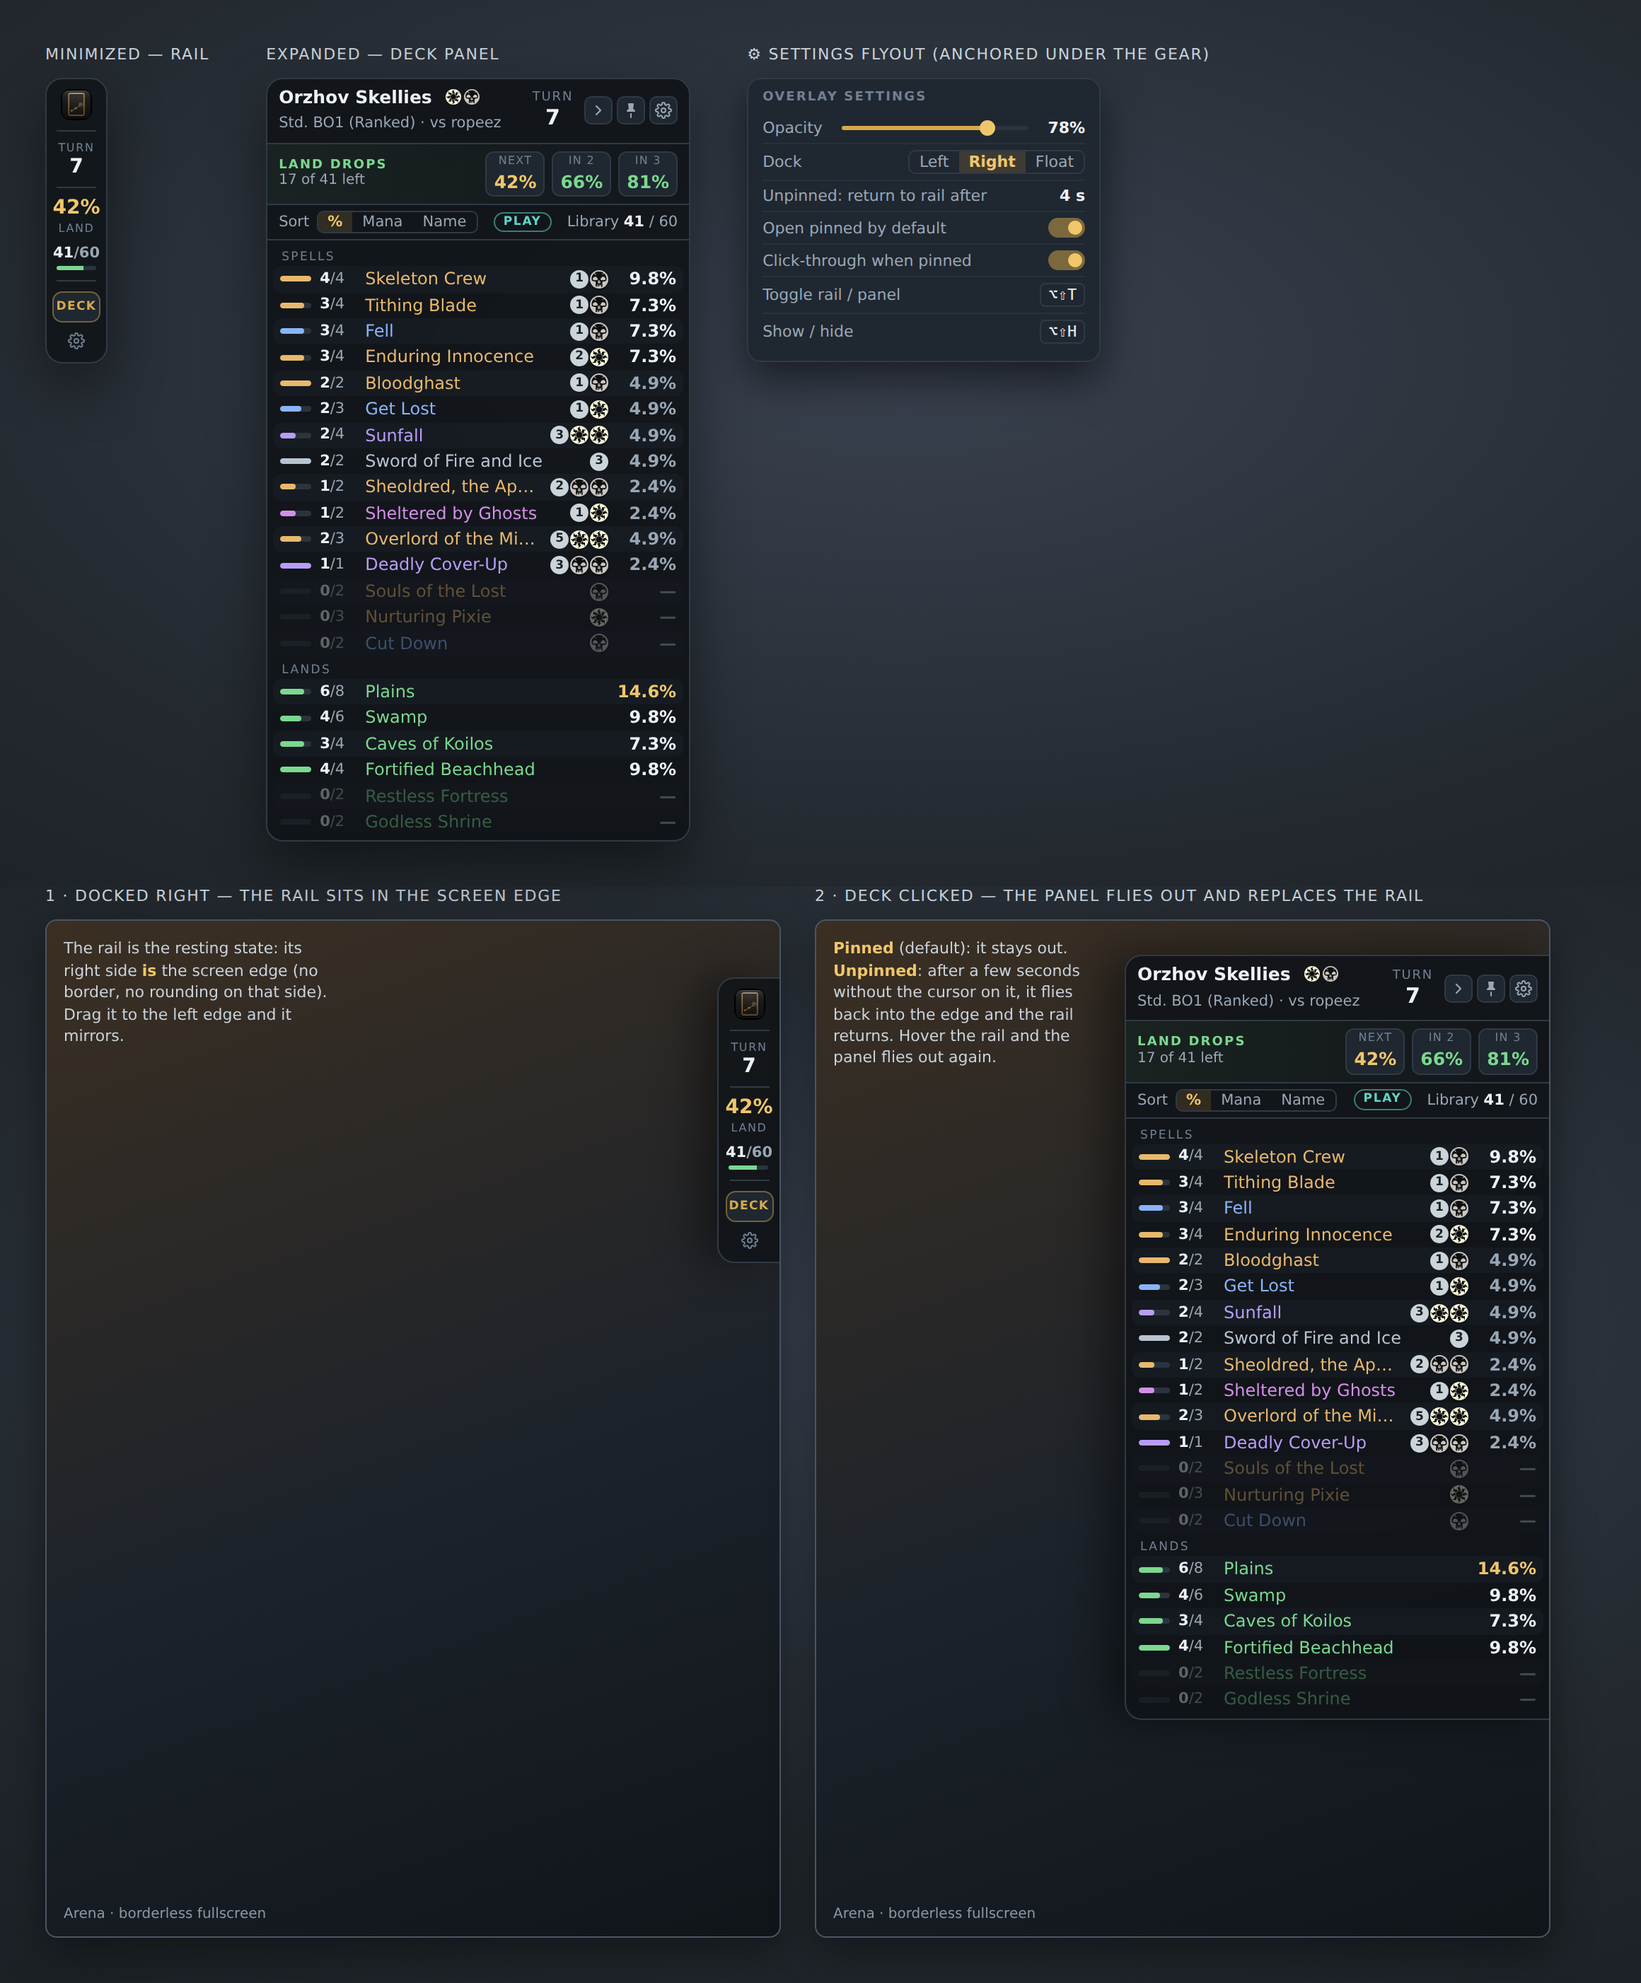
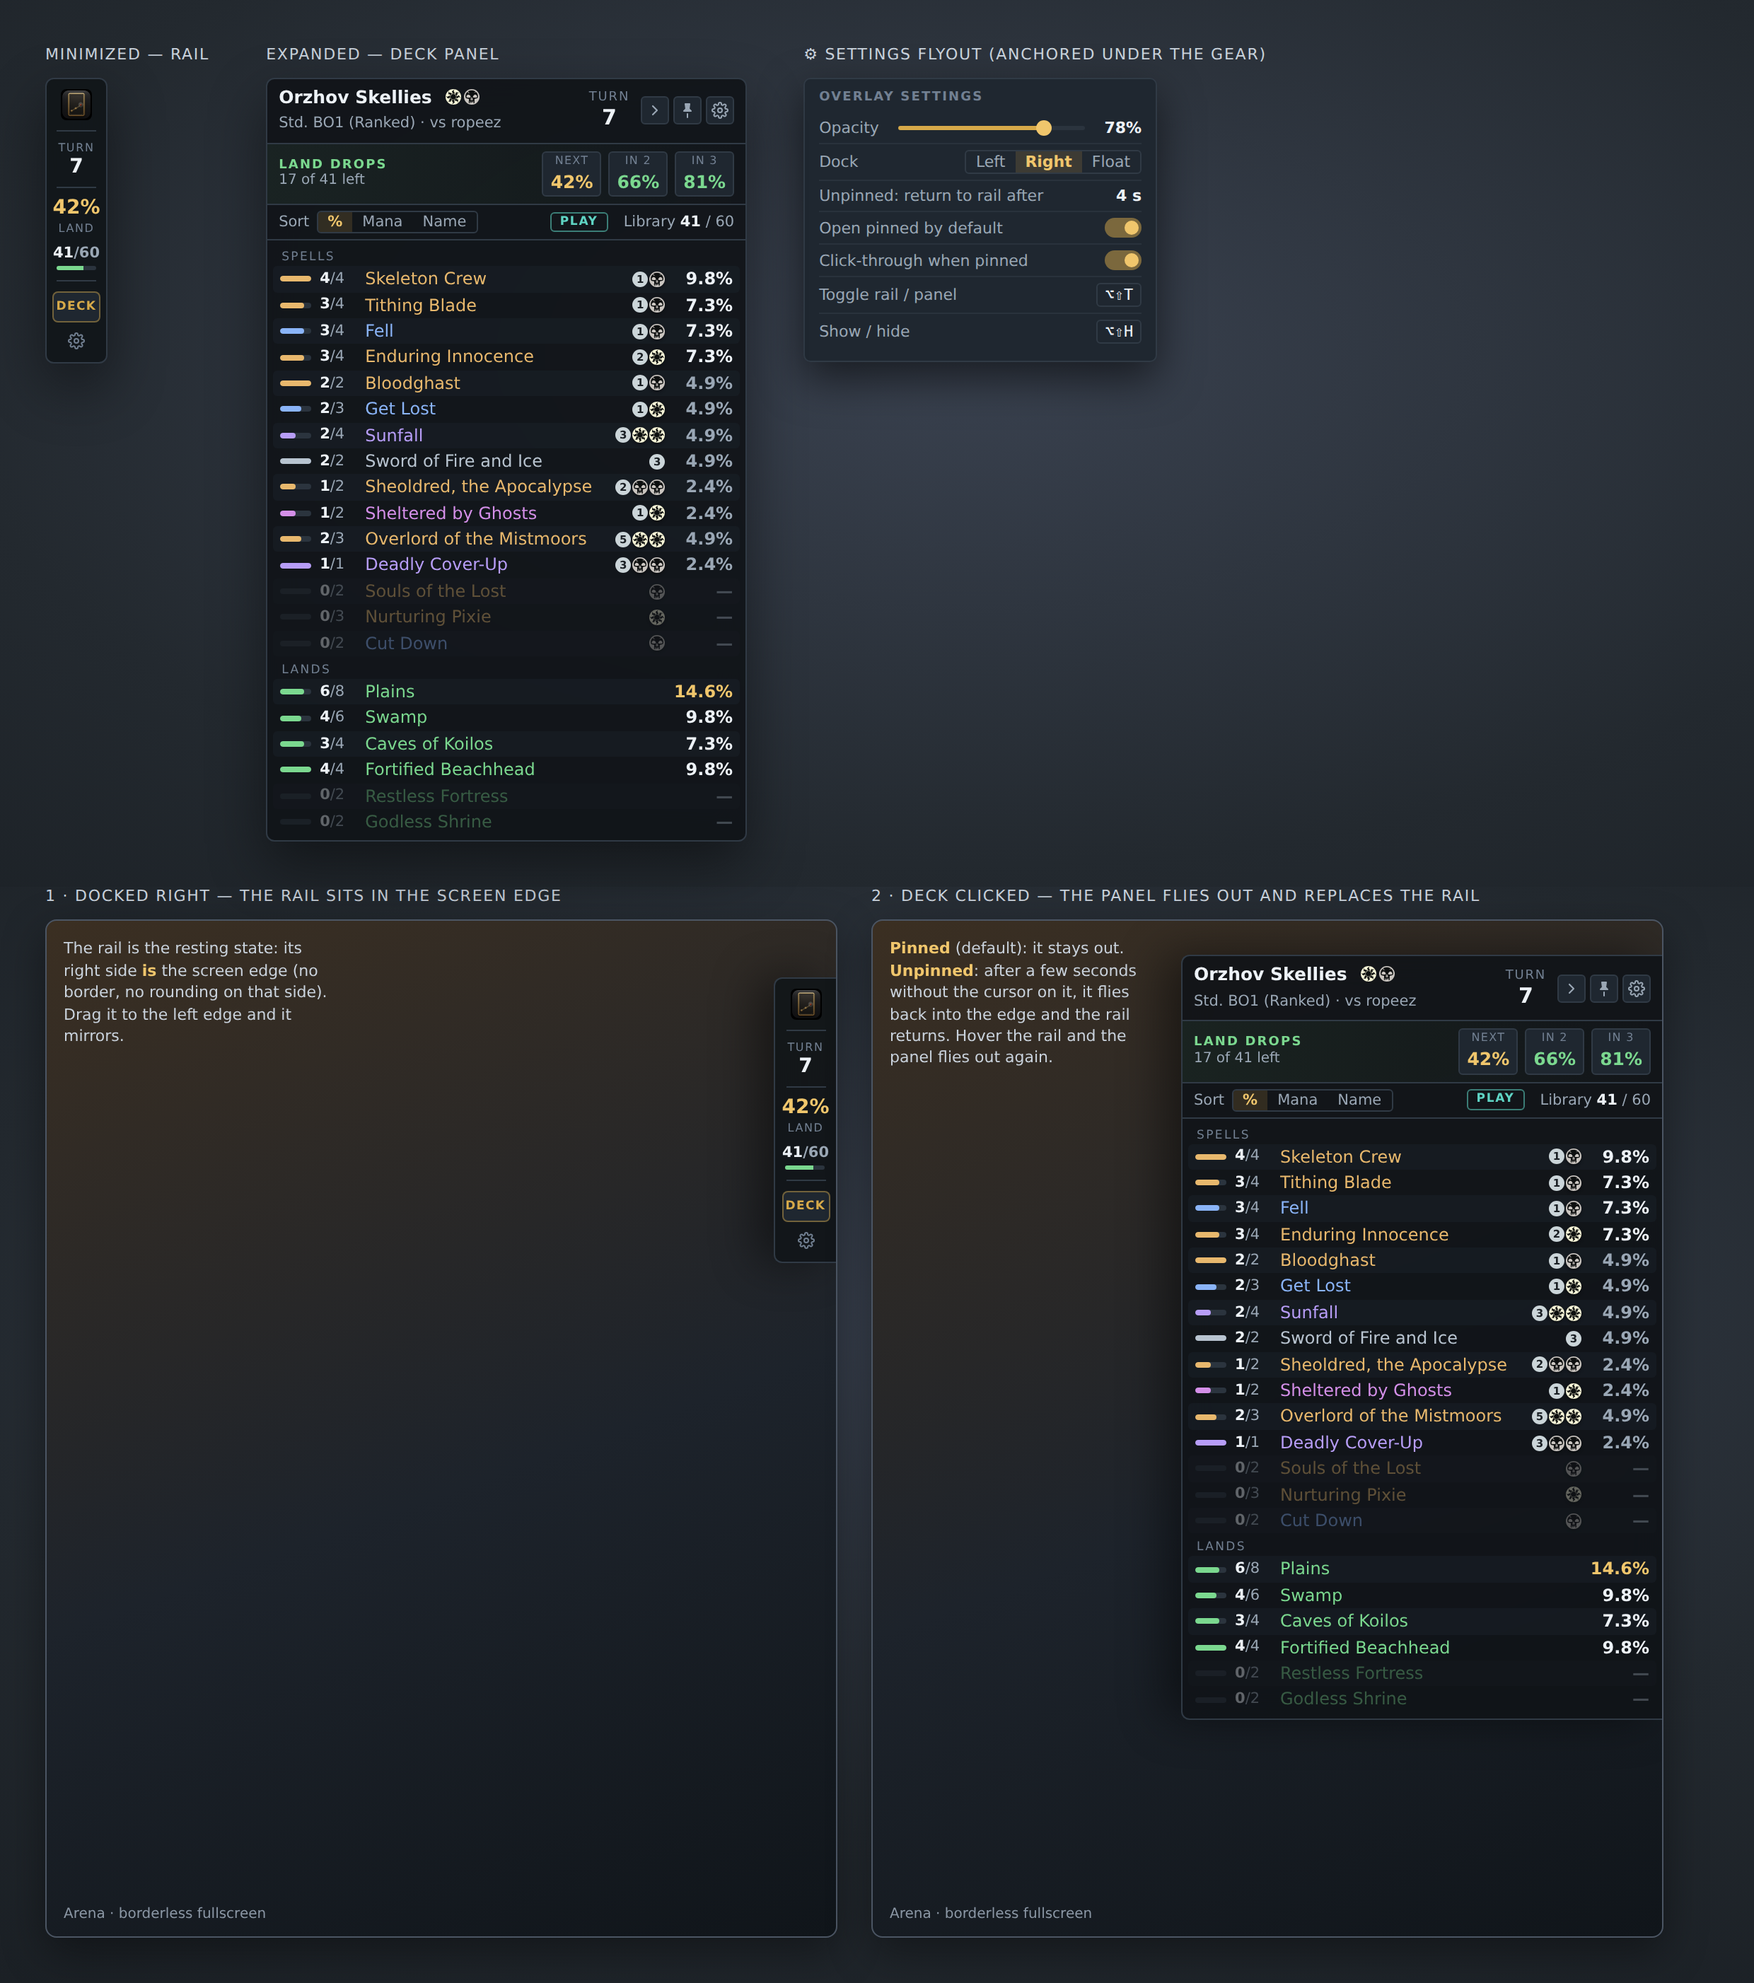
Overlay plan v6: 340px panel so full card names fit, 11px mana symbols, tighter corner radii throughout

diff --git a/docs/overlay-mockup.html b/docs/overlay-mockup.html
@@ -7,10 +7,10 @@
   body { margin:0; background:#2b3138; font-family:Inter, ui-sans-serif, system-ui, -apple-system, "Segoe UI", sans-serif; color:var(--text); }
   .stage { display:flex; gap:40px; padding:32px; align-items:flex-start; background:radial-gradient(1200px 600px at 55% 40%, #3a4250 0%, #23292f 60%, #1a1f24 100%); }
   .label { color:#c9d2dc; font-size:11px; letter-spacing:.08em; text-transform:uppercase; margin:0 0 10px; }
-  .logo { border-radius:7px; display:block; }
+  .logo { border-radius:4px; display:block; }
 
   /* rail */
-  .rail { width:44px; background:rgba(16,20,24,.88); border:1px solid var(--border); border-radius:12px; box-shadow:0 16px 40px rgb(0 0 0 / 45%);
+  .rail { width:44px; background:rgba(16,20,24,.88); border:1px solid var(--border); border-radius:6px; box-shadow:0 16px 40px rgb(0 0 0 / 45%);
            backdrop-filter:blur(10px); padding:7px 0 5px; display:flex; flex-direction:column; align-items:center; gap:7px; }
   .rail .sep { width:28px; height:1px; background:var(--border); }
   .rail .k { font-size:8px; letter-spacing:.1em; color:var(--subtle); text-transform:uppercase; }
@@ -18,13 +18,13 @@
   .rail .cell { display:flex; flex-direction:column; align-items:center; }
   .rail .land { font-size:14px; font-weight:800; color:var(--accent-strong); line-height:1; }
   .rail .lib { font-size:10.5px; font-weight:700; color:var(--muted); } .rail .lib b { color:var(--text); }
-  .rail .bar { width:28px; height:3px; border-radius:3px; background:#2b343e; overflow:hidden; margin-top:3px; } .rail .bar i { display:block; height:100%; width:68%; background:var(--success); }
-  .rail .btn { width:34px; height:22px; border-radius:7px; border:1px solid var(--border); background:var(--panel-strong); display:grid; place-items:center; font-size:8.5px; font-weight:800; letter-spacing:.08em; color:var(--muted); }
+  .rail .bar { width:28px; height:3px; border-radius:2px; background:#2b343e; overflow:hidden; margin-top:3px; } .rail .bar i { display:block; height:100%; width:68%; background:var(--success); }
+  .rail .btn { width:34px; height:22px; border-radius:4px; border:1px solid var(--border); background:var(--panel-strong); display:grid; place-items:center; font-size:8.5px; font-weight:800; letter-spacing:.08em; color:var(--muted); }
   .rail .btn.gold { color:var(--accent); border-color:rgba(215,170,73,.45); }
   .rail .gear { color:var(--subtle); font-size:13px; }
 
   /* panel */
-  .panel { width:300px; background:rgba(16,20,24,.92); border:1px solid var(--border); border-radius:12px; box-shadow:0 16px 40px rgb(0 0 0 / 45%); backdrop-filter:blur(10px); overflow:hidden; position:relative; }
+  .panel { width:340px; background:rgba(16,20,24,.92); border:1px solid var(--border); border-radius:6px; box-shadow:0 16px 40px rgb(0 0 0 / 45%); backdrop-filter:blur(10px); overflow:hidden; position:relative; }
   .head { display:flex; align-items:center; gap:8px; padding:6px 8px 6px 8px; border-bottom:1px solid var(--border); }
   .head .deck { flex:1; min-width:0; line-height:1.15; }
   .head .deck b { display:block; font-size:12.5px; white-space:nowrap; overflow:hidden; text-overflow:ellipsis; }
@@ -32,47 +32,47 @@
   .pips { display:inline-flex; gap:2px; vertical-align:-1px; margin-left:5px; } .pips img { width:11px; height:11px; }
   .head .turn { font-size:9px; letter-spacing:.1em; color:var(--subtle); text-align:center; line-height:1; } .head .turn b { display:block; font-size:15px; color:var(--text); margin-top:2px; letter-spacing:0; }
   .head .ctl { display:flex; gap:3px; }
-  .head .ctl span { width:20px; height:20px; border-radius:5px; border:1px solid var(--border); display:grid; place-items:center; color:var(--muted); font-size:11px; background:var(--panel-strong); }
+  .head .ctl span { width:20px; height:20px; border-radius:3px; border:1px solid var(--border); display:grid; place-items:center; color:var(--muted); font-size:11px; background:var(--panel-strong); }
   .head .ctl span.on { color:var(--muted); }
 
   .lands { display:grid; grid-template-columns:1fr auto auto auto; align-items:center; gap:5px; padding:5px 8px; border-bottom:1px solid var(--border);
            background:linear-gradient(90deg, rgba(123,216,143,.07), transparent); }
   .lands .t { font-size:9px; letter-spacing:.12em; color:var(--success); text-transform:uppercase; font-weight:800; line-height:1.2; }
   .lands .t small { display:block; font-size:10px; letter-spacing:0; text-transform:none; color:var(--muted); font-weight:500; }
-  .odd { text-align:center; min-width:40px; padding:2px 5px; border-radius:6px; background:var(--panel-strong); border:1px solid var(--border); line-height:1.1; }
+  .odd { text-align:center; min-width:40px; padding:2px 5px; border-radius:3px; background:var(--panel-strong); border:1px solid var(--border); line-height:1.1; }
   .odd small { display:block; font-size:8px; color:var(--subtle); letter-spacing:.08em; } .odd b { font-size:12.5px; color:var(--success); } .odd.now b { color:var(--accent-strong); }
 
   .tools { display:flex; align-items:center; gap:5px; padding:4px 8px; white-space:nowrap; font-size:10.5px; color:var(--muted); border-bottom:1px solid var(--border); }
-  .tools .seg { display:inline-flex; border:1px solid var(--border); border-radius:5px; overflow:hidden; } .tools .seg span { padding:1px 7px; }
+  .tools .seg { display:inline-flex; border:1px solid var(--border); border-radius:3px; overflow:hidden; } .tools .seg span { padding:1px 7px; }
   .tools .seg span.on { background:rgba(215,170,73,.16); color:var(--accent-strong); font-weight:700; }
   .tools .lib { margin-left:6px; }
-  .tools .pd { margin-left:auto; font-size:8.5px; font-weight:800; letter-spacing:.1em; padding:2px 6px; border-radius:10px; border:1px solid var(--border); line-height:1; }
+  .tools .pd { margin-left:auto; font-size:8.5px; font-weight:800; letter-spacing:.1em; padding:2px 6px; border-radius:3px; border:1px solid var(--border); line-height:1; }
   .tools .pd.play { color:#5fd4c4; border-color:rgba(95,212,196,.55); }
   .tools .pd.draw { color:#b79df7; border-color:rgba(183,157,247,.55); } .tools .lib b { color:var(--text); }
 
   .list { padding:2px 4px 4px; }
   .grp { font-size:8.5px; letter-spacing:.14em; color:var(--subtle); text-transform:uppercase; padding:5px 6px 1px; }
-  .row { display:grid; grid-template-columns:22px 26px 1fr auto 42px; align-items:center; gap:6px; padding:2px 5px; border-radius:6px; font-size:12px; line-height:1.2; }
+  .row { display:grid; grid-template-columns:22px 26px 1fr auto 42px; align-items:center; gap:6px; padding:2px 5px; border-radius:3px; font-size:12px; line-height:1.2; }
   .row:nth-child(even) { background:rgba(31,39,48,.35); } .row.dim { opacity:.36; }
   .row .cnt { font-size:10.5px; color:var(--muted); font-variant-numeric:tabular-nums; } .row .cnt b { color:var(--text); }
   .row .nm { white-space:nowrap; overflow:hidden; text-overflow:ellipsis; }
   .nm.land { color:#7bd88f; } .nm.creature { color:#e8b86d; } .nm.instant { color:#8ab4f8; } .nm.sorcery { color:#b79df7; } .nm.ench { color:#d48fe8; } .nm.artifact { color:#b8c4d0; }
-  .mana { display:inline-flex; gap:1px; align-items:center; } .mana img { width:13px; height:13px; filter:drop-shadow(0 1px 1px rgb(0 0 0 / 45%)); }
-  .mana .gen { width:13px; height:13px; border-radius:50%; background:#cbd5d9; color:#1a1f24; font-style:normal; font-size:8.5px; font-weight:800; display:grid; place-items:center; }
+  .mana { display:inline-flex; gap:1px; align-items:center; } .mana img { width:11px; height:11px; filter:drop-shadow(0 1px 1px rgb(0 0 0 / 45%)); }
+  .mana .gen { width:11px; height:11px; border-radius:50%; background:#cbd5d9; color:#1a1f24; font-style:normal; font-size:7.5px; font-weight:800; display:grid; place-items:center; }
   .pct { text-align:right; font-weight:800; font-variant-numeric:tabular-nums; } .pct.hot { color:var(--accent-strong); } .pct.warm { color:var(--text); } .pct.cold { color:var(--muted); font-weight:600; }
   .mini { display:grid; place-items:center; }
-  .mbar { display:block; width:22px; height:4px; border-radius:4px; background:#2b343e; overflow:hidden; }
-  .mbar b { display:block; height:100%; border-radius:4px; }
+  .mbar { display:block; width:22px; height:4px; border-radius:2px; background:#2b343e; overflow:hidden; }
+  .mbar b { display:block; height:100%; border-radius:2px; }
 
   /* settings flyout */
-  .fly { position:absolute; right:8px; top:34px; width:214px; background:var(--panel-strong); border:1px solid var(--border); border-radius:10px; padding:8px 10px; font-size:11px; box-shadow:0 12px 30px rgb(0 0 0 / 55%); z-index:2; }
+  .fly { position:absolute; right:8px; top:34px; width:214px; background:var(--panel-strong); border:1px solid var(--border); border-radius:5px; padding:8px 10px; font-size:11px; box-shadow:0 12px 30px rgb(0 0 0 / 55%); z-index:2; }
   .fly h4 { margin:0 0 6px; font-size:9px; letter-spacing:.12em; color:var(--subtle); text-transform:uppercase; }
   .fly .r { display:flex; align-items:center; justify-content:space-between; gap:8px; padding:4px 0; color:var(--muted); }
   .fly .r + .r { border-top:1px solid rgb(48 58 69 / 60%); }
   .fly .slider { flex:1; height:3px; background:#2b343e; border-radius:3px; position:relative; margin:0 6px; } .fly .slider i { position:absolute; left:0; top:0; height:100%; width:78%; background:var(--accent); border-radius:3px; } .fly .slider b { position:absolute; left:78%; top:-4px; width:11px; height:11px; border-radius:50%; background:var(--accent-strong); transform:translateX(-50%); }
-  .fly .seg { display:inline-flex; border:1px solid var(--border); border-radius:5px; overflow:hidden; } .fly .seg span { padding:1px 7px; } .fly .seg span.on { background:rgba(215,170,73,.16); color:var(--accent-strong); font-weight:700; }
+  .fly .seg { display:inline-flex; border:1px solid var(--border); border-radius:3px; overflow:hidden; } .fly .seg span { padding:1px 7px; } .fly .seg span.on { background:rgba(215,170,73,.16); color:var(--accent-strong); font-weight:700; }
   .fly .tog { width:26px; height:14px; border-radius:14px; background:#2b343e; position:relative; } .fly .tog.on { background:rgba(215,170,73,.5); } .fly .tog b { position:absolute; top:2px; left:2px; width:10px; height:10px; border-radius:50%; background:#9aa7b5; } .fly .tog.on b { left:14px; background:var(--accent-strong); }
-  .fly .hot { padding:1px 5px; border:1px solid var(--border); border-radius:4px; font-family:ui-monospace, Menlo, monospace; color:var(--text); }
+  .fly .hot { padding:1px 5px; border:1px solid var(--border); border-radius:3px; font-family:ui-monospace, Menlo, monospace; color:var(--text); }
   .fly .v { color:var(--text); font-weight:700; }
 
   /* docked / auto-hide demo */
@@ -85,8 +85,8 @@
   .ghost:after { content:""; position:absolute; left:10px; right:10px; top:14px; height:4px; background:#2b343e; border-radius:3px; box-shadow:0 12px 0 #2b343e, 0 24px 0 #2b343e, 0 36px 0 #2b343e, 0 48px 0 #2b343e; }
   .cursor { position:absolute; right:22px; top:110px; width:0; height:0; border-left:8px solid #fff; border-top:4px solid transparent; border-bottom:10px solid transparent; transform:rotate(-20deg); filter:drop-shadow(0 1px 2px #000); }
 
-  .dock-r { border-right:0 !important; border-radius:12px 0 0 12px !important; box-shadow:-12px 0 32px rgb(0 0 0 / 45%) !important; }
-  .frame { width:520px; height:720px; background:linear-gradient(160deg, #3b2f22, #1d232b 55%, #10151a); border:1px solid #4b5563; border-radius:8px; position:relative; overflow:hidden; box-shadow:0 10px 30px rgb(0 0 0 / 40%); }
+  .dock-r { border-right:0 !important; border-radius:6px 0 0 6px !important; box-shadow:-12px 0 32px rgb(0 0 0 / 45%) !important; }
+  .frame { width:560px; height:720px; background:linear-gradient(160deg, #3b2f22, #1d232b 55%, #10151a); border:1px solid #4b5563; border-radius:8px; position:relative; overflow:hidden; box-shadow:0 10px 30px rgb(0 0 0 / 40%); }
   .frame .cap { position:absolute; left:12px; bottom:10px; font-size:10px; color:#8b97a5; }
   .frame .note { position:absolute; left:12px; top:12px; width:190px; font-size:11px; color:#c9d2dc; line-height:1.4; }
   .frame .note b { color:var(--accent-strong); }

diff --git a/docs/OVERLAY_TRACKER_PLAN.md b/docs/OVERLAY_TRACKER_PLAN.md
@@ -37,8 +37,10 @@ to fix it) — the one piece of colour-as-warning in the design.
 
 ### Expanded — the deck panel
 
-300px wide and as dense as it can be while staying readable: 22px rows. A
-60-card deck is typically 18–24 distinct cards, which is ~620px of panel —
+340px wide — enough that "Sheoldred, the Apocalypse" and "Overlord of the
+Mistmoors" fit without an ellipsis — and as dense as it can be while staying
+readable: 22px rows. A 60-card deck is typically 18–24 distinct cards, which
+is ~620px of panel —
 it fits on any screen from 1080p up with every row visible, no scrolling.
 No logo in this state — every pixel goes to cards. The panel's height is
 capped at the screen's work area and the list scrolls inside it when a deck
@@ -82,7 +84,8 @@ the library starts at 99.
   rail's library bar, and deliberately not a ring — coloured by card type
   (creature amber, instant blue, sorcery violet, enchantment pink, artifact
   grey, land green — the dashboard's type-chip palette), `left/total`, the
-  name in the type colour, the mana cost drawn with the **real mana symbols** (the same W/U/B/R/G
+  name in the type colour (11px mana symbols, small enough to read as cost
+  rather than compete with the name), the mana cost drawn with the **real mana symbols** (the same W/U/B/R/G
   vectors the dashboard's colour pips use; generic mana as a grey numbered
   circle), and the next-draw %. Percentages step through three weights (gold
   ≥ 10%, white ≥ 5%, muted below) so the eye finds the live outs first. Rows
@@ -128,6 +131,9 @@ overlay's settings file the moment it changes:
   to Arena.
 - **Hotkeys**: toggle rail/panel (`Alt+Shift+T`), show/hide
   (`Alt+Shift+H`), both rebindable.
+
+Corners are tight throughout — 6px on the window, 3px on controls, pills,
+and rows — so the overlay reads as an instrument, not a card.
 
 What it deliberately does not have: a play-by-play log. The dashboard's Live
 Scoreboard already owns that; the overlay stays a draw-odds instrument.
